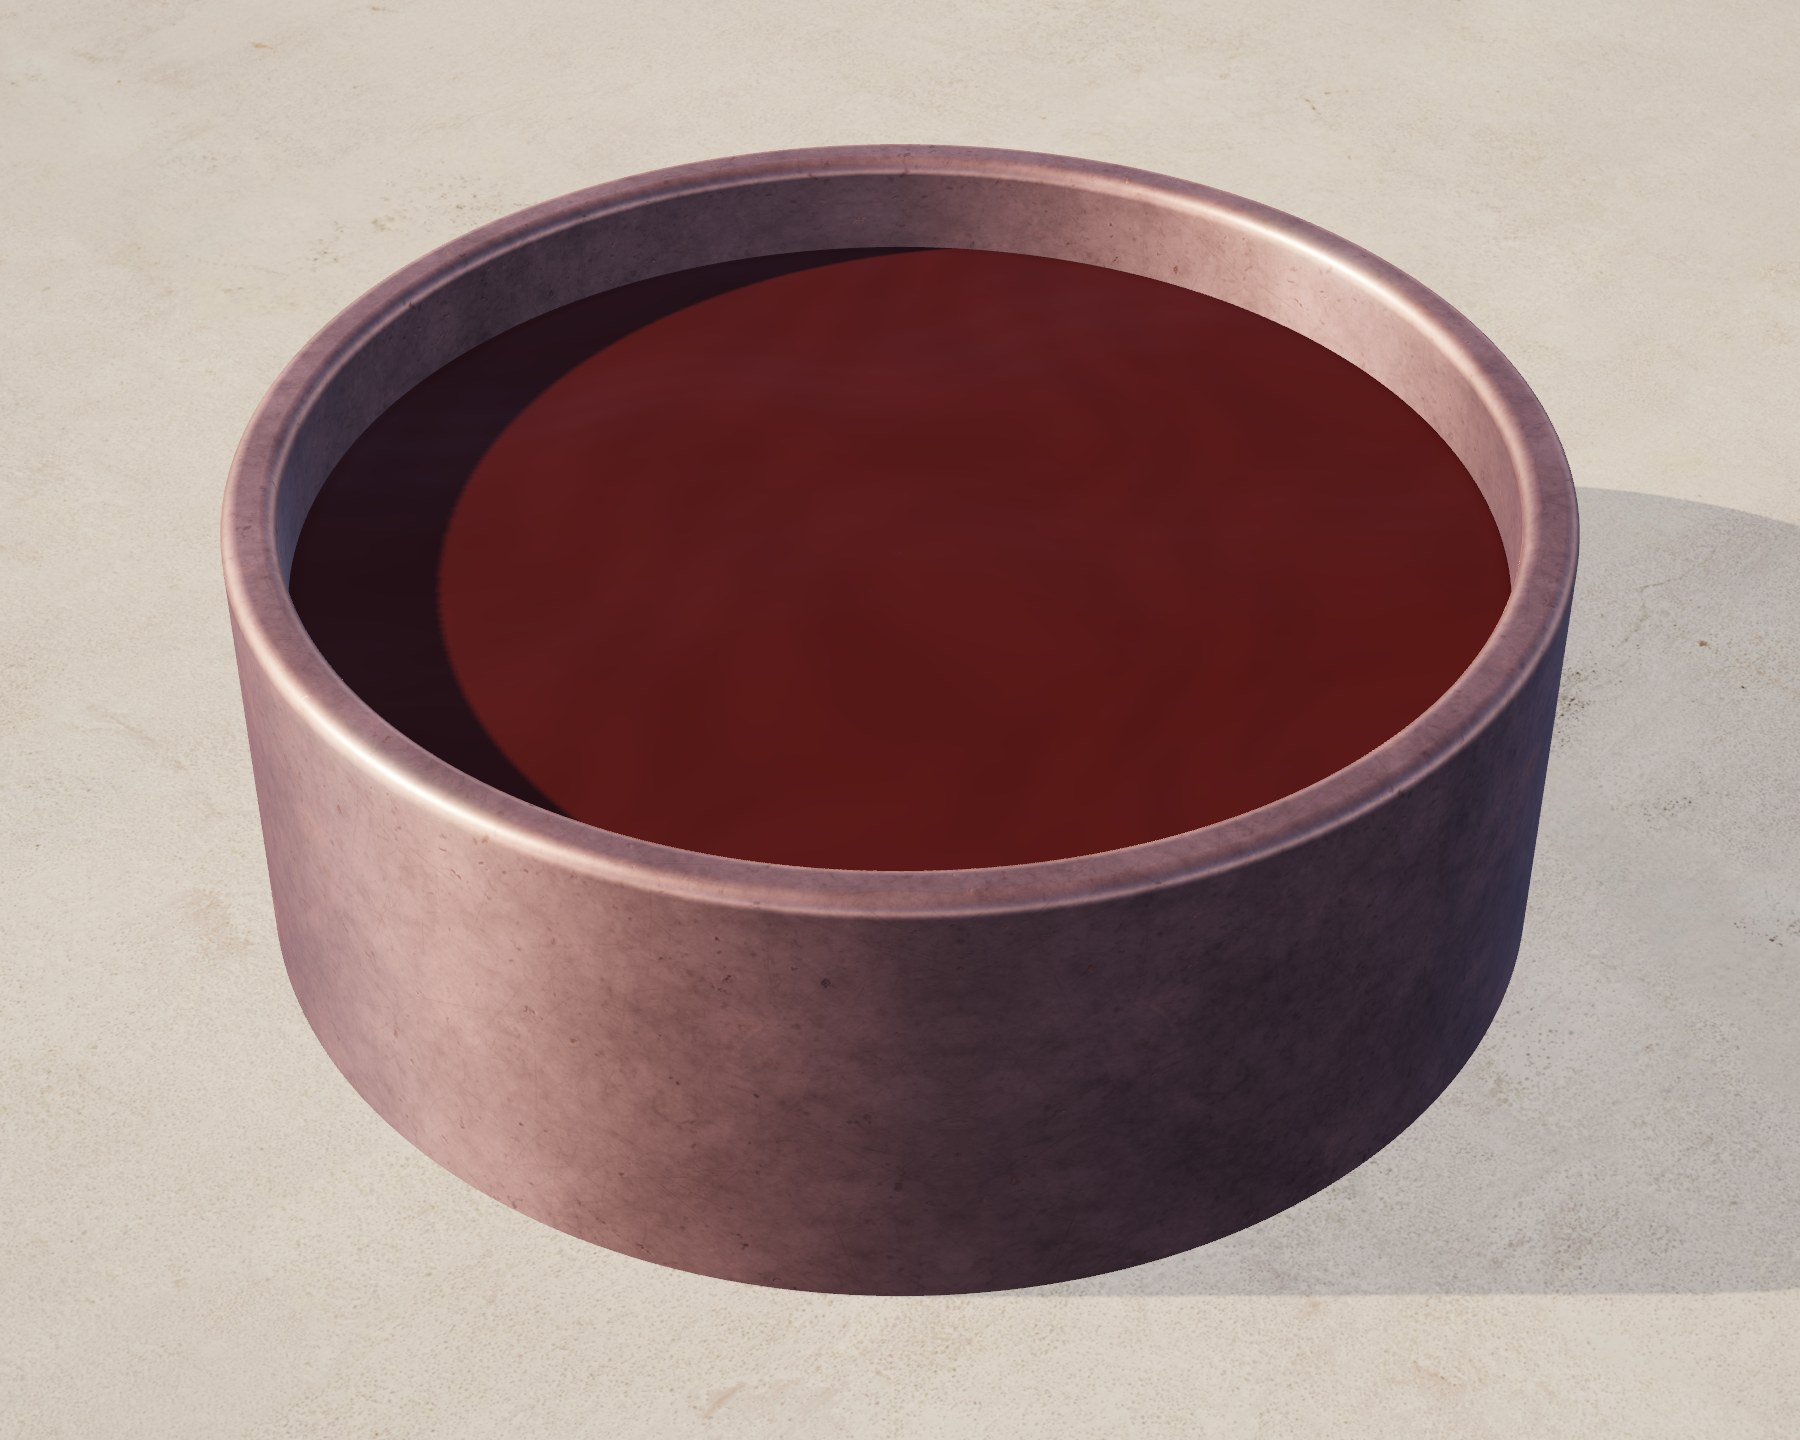
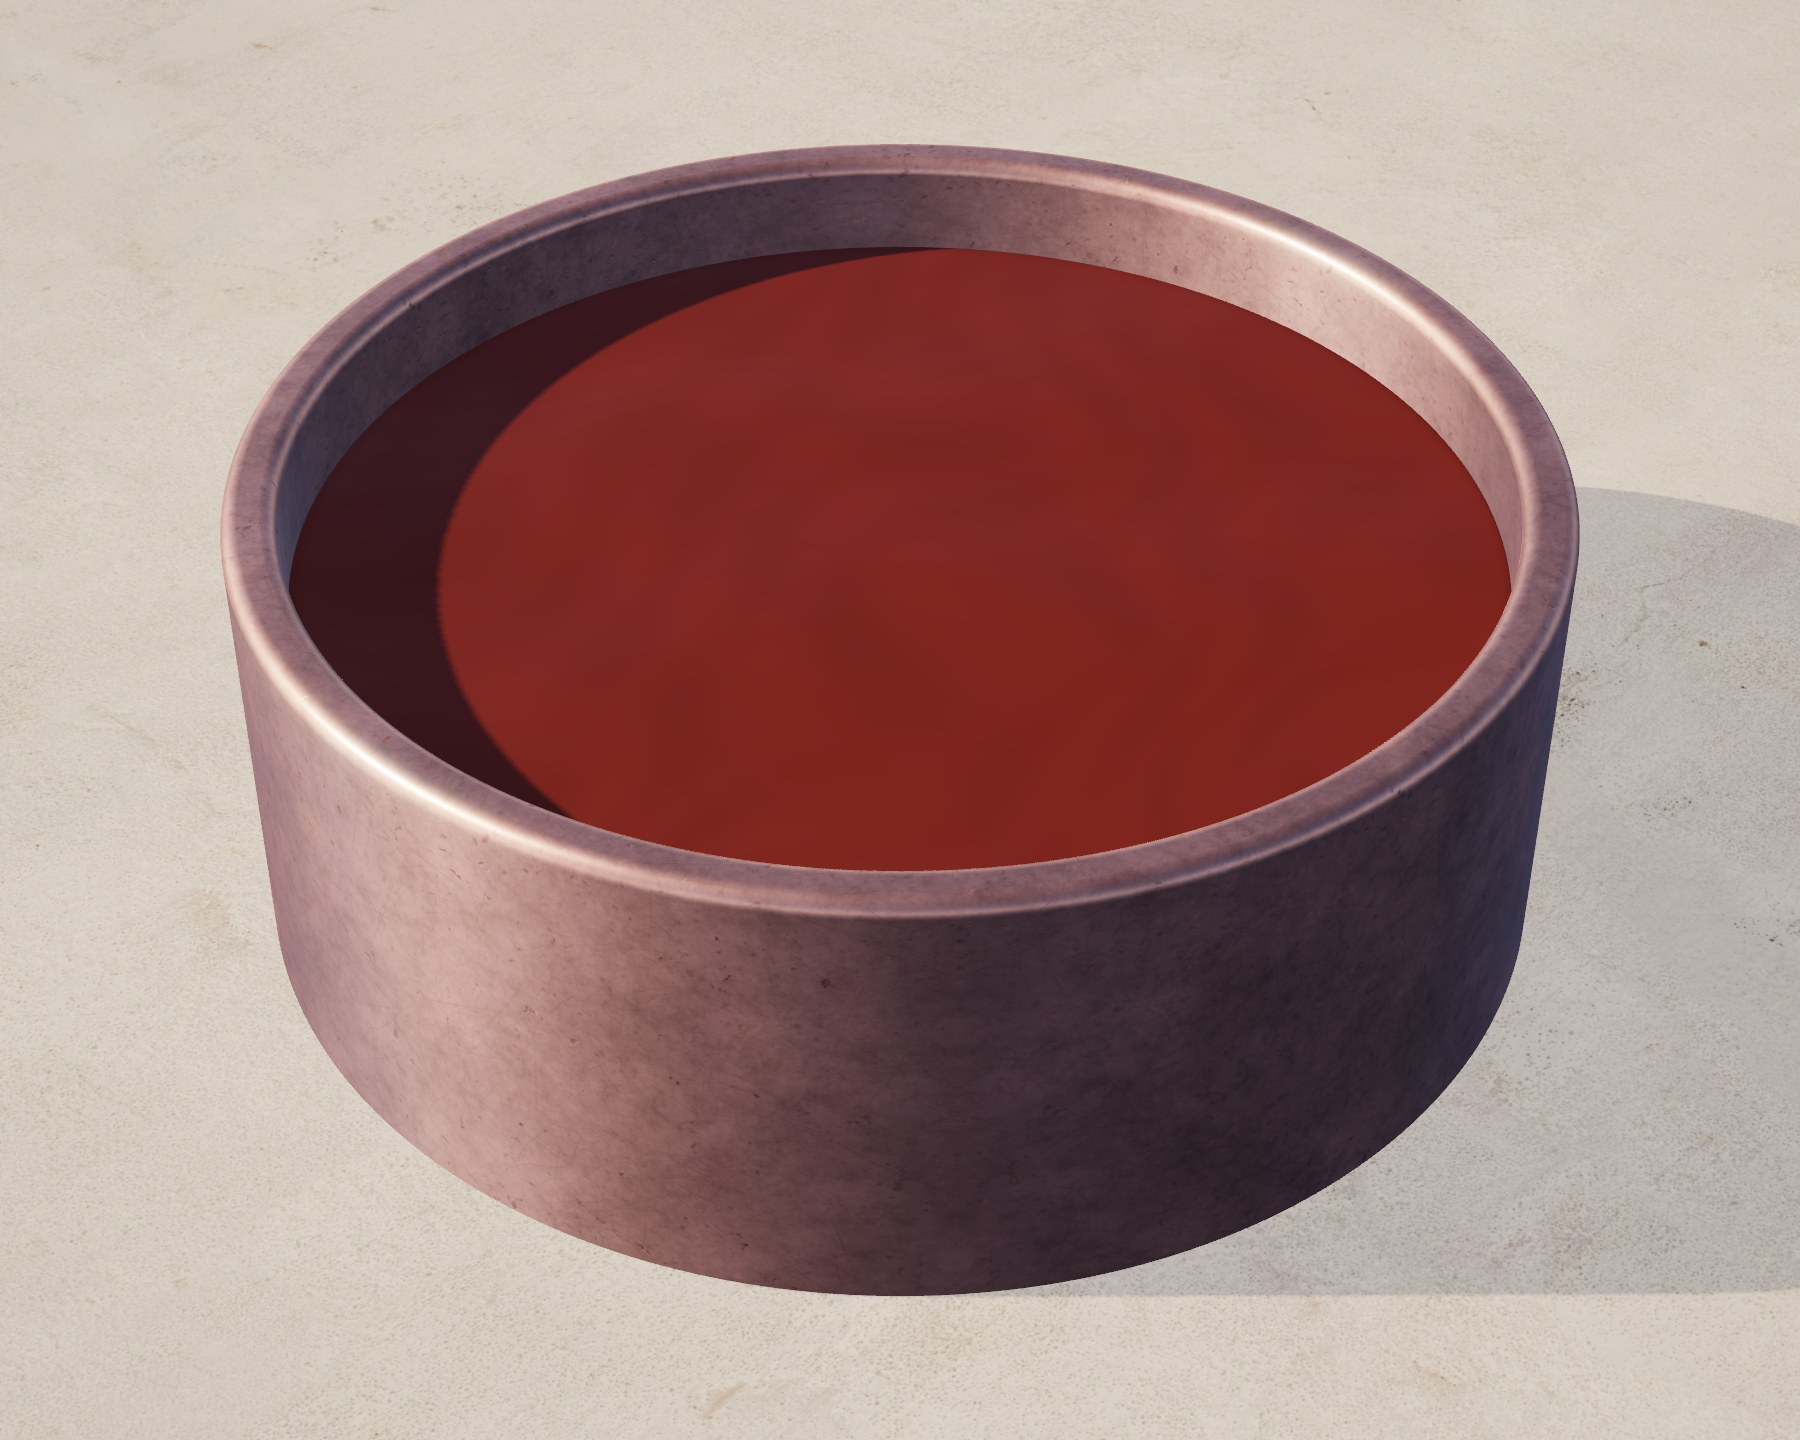
Re-render the Door 1 liquid, bath and alum stills after DR-098, attribute pan shimmer per object, and record the integration (DR-100)
Fifteen object stills changed with the new substance materials, so Door 1 again shows the
liquids Door 2 renders. window.shimmerByObject measures how much of the slow-pan figure each
object carries. DR-100 records the merges, the stale e2e battery, the test uploads that reached
the remote bucket and were deleted, the hall textile shimmer trade-off left for the lead, and
the Iris Xe memory floor.

Changed region(s): [[0.2178, 0.1562, 0.84, 0.625]]

diff --git a/tools/walkthrough-lab/lab.ts b/tools/walkthrough-lab/lab.ts
@@ -300,6 +300,23 @@ win.flicker = async (frames = 60, threshold = 10, mode = "pan") => {
   context.putImageData(image, 0, 0);
   return { mode, anyPct: +((any / count) * 100).toFixed(3), fourPlusPct: +((four / count) * 100).toFixed(3), events, heat: heat.toDataURL("image/png") };
 };
+win.shimmerByObject = async (frames = 60, threshold = 10) => {
+  const panShimmer = async () => ((await (win.flicker as (f: number, t: number, m: string) => Promise<{ fourPlusPct: number }>)(frames, threshold, "pan")).fourPlusPct);
+  const whole = await panShimmer();
+  const groups = [
+    ...(auditRoot ? objectParts(auditRoot).map((part) => ({ label: `${part.auditName} / ${part.label}`, meshes: part.meshes as THREE.Object3D[] })) : []),
+    ...environmentOf().map((mesh) => ({ label: `environment / ${mesh.name || (mesh as THREE.Mesh).geometry.type}`, meshes: [mesh] })),
+  ];
+  const rows: { label: string; share: number }[] = [];
+  for (const group of groups) {
+    const shown = group.meshes.map((mesh) => mesh.visible);
+    for (const mesh of group.meshes) mesh.visible = false;
+    const without = await panShimmer();
+    group.meshes.forEach((mesh, index) => (mesh.visible = shown[index]!));
+    rows.push({ label: group.label, share: +(whole - without).toFixed(3) });
+  }
+  return { whole, rows: rows.sort((a, b) => b.share - a.share) };
+};
 win.walkCheck = () => {
   if (!walkPlan || !walkColliders) return null;
   let walker: Walker = walkerAt(walkPlan.standpoint.from, walkPlan.standpoint.to, 0);

diff --git a/docs/research/design-process/decisions.md b/docs/research/design-process/decisions.md
@@ -3623,3 +3623,14 @@ novice met, and none touches the sheet.
 - **Leak check:** over a walk, live textures stay at 72 to 110, live GL texture memory at 1.54 to 2.06 GB and buffer memory at 60 to 103 MB, falling when a yard is released, on NVIDIA and on Iris Xe. Standing still with zero GL allocations by the page, the headless shell's GPU process on the Iris Xe grows 16.7 to 23.5 MB/s, while full Chromium on the same Iris Xe stays flat (-2.7 MB/s) and NVIDIA stays flat (-0.1 MB/s). The growth is the headless shell (DR-073), not a leak in our code.
 - **Iris Xe:** the headless shell (`launchLowSpec`), Ajrakh: worst frame per leg 23, 15167, 10090, 35, 27416, 3125, 24291, 25 and 22 ms, its GPU process climbing from 5.7 to 8.9 GB private and free RAM down to 216 MB. Legs without a stall are now 22 to 35 ms (before: 137, 68 and 55 ms on such legs). Full Chromium on the same Iris Xe, not the shell: no multi-second gap on the whole route, worst frame per leg 50, 58, 60, 49, 55, 63, 44, 63 and 38 ms, mean 10 to 12.6 ms, p95 11.9 to 16.9 ms; five legs exceed 50 ms by 5 to 13 ms.
 - **Open:** on the Iris Xe the GPU process holds about 5.4 to 6.5 GB for 1.5 to 2.1 GB of textures. Measured per 2048 px texture: three.js's immutable `texStorage2D` upload costs 58 to 97 MB in the Iris Xe GPU process, a mutable `texImage2D` upload with mipmaps 24 MB. Changing the upload path would save several GB on integrated graphics; it was not done here.
+
+## DR-100: Integration Of DR-098 And DR-099; E2E Studies On Battery V4 With An Image Check; Door 1 Liquid Stills Re-Rendered; Hall Textile Shimmer Left For The Lead (Adopted under the lead's delegation, 2026-11-06)
+- **Merges:** the liquid-colour branch (0eef804) and the frame-stray branch (568a850) both wrote DR-098. Both records are kept; the frame-stray record is renumbered DR-099. No code conflicted.
+- **Door 1 asked for two missing stills.** The demo studies the e2e suite used pinned test battery v3, seeded before the Door 1 stills were re-rendered under new names, so two identification and placement items pointed at `8ba4da5b.jpg` and `9ca5cfdd.jpg`, which no longer exist. The generated battery (`db/seeds/study-test-items.generated.json`) was already current. **Decision:** the e2e studies take their slug from one battery version (now 4: `demo-walking-v4`, `demo-walking-cap-v4`), and the journey spec fails at setup if any image the pinned battery shows is missing from `public/`.
+- **E2E coverage added:** resume and a hub visit keep learning open, then withdrawal (DR-095 item 1); an excluded session ends at once, says only that it ended, and can still withdraw (DR-095 item 4 and correction a); the invite gate (bad code refused, a one-use code refused the second time, a revoked code cannot start a study, a link code admits); a role-less account waits at `/awaiting-access` until an administrator grants a role (DR-096); a content editor uploads an image, a curator's verification is refused while its provenance is "unverified", the editor corrects it and resubmits, the curator verifies it, and a release on unready content publishes nothing. The research dashboard check now enrols its own participant instead of depending on the journey spec's leftovers, and every spec signs staff in through one helper that waits out the per-minute sign-in throttle instead of timing out.
+- **Remote bucket, found and cleaned:** `next start` loads `.env.production.local`, which names the deployment's Neon object store, so three e2e test PNGs (18614 bytes each, random noise) were uploaded to bucket `episteme-media` during this work. All three objects were deleted (HEAD before: present; after: absent) and their rows removed. The e2e server now runs with the S3 variables blank and `MEDIA_LOCAL_DIR` in a scratch folder, and the upload test refuses to run unless the media page reports local disk.
+- **Door 1 parity after DR-098:** Door 1 object stills are rendered from the same substance materials that DR-098 changed, and had not been re-rendered. All 53 were rendered again on NVIDIA; 15 changed (rice starch, neerani, turmeric, madder and myrobalan pots, the copper, vat and tank baths, alum in all three traditions; mean absolute change 0.13 to 5.24 per channel), and the 20 others differed only in JPEG bytes (mean change 0.00) and were left as committed. Both doors now show the same liquids.
+- **Slow-pan shimmer (Section 8.9, at most 0.5 per cent):** measured on all 32 scenes. Eight are at or over: Ajrakh n=6 0.746 and n=9 1.457; Sanganeri n=1 0.500, n=4 0.527 and n=9 2.280; Kalamkari n=1 0.502, n=5 1.108 and n=9 2.564. The same eight read the same at fb445c6 (within 0.003), so neither merge caused them. Hiding one object at a time (`window.shimmerByObject`) puts the halls on the printed product photographs (Kalamkari p1 to p6 together 2.23 of 2.56), and the bench scenes on the wicker basket scan (0.17 to 0.28) and the bamboo lean-to (0.19 to 0.23). Giving the hall photographs the cloth's far mip bias (1.5 beyond 5 m) brings the halls to 0.647, 0.274 and 0.472, but the six products then read visibly soft from the standpoint; 0.7 keeps them sharp but leaves 1.077, 0.742 and 1.138. Rule L4/L5 ranks above the derived budget, so nothing was changed. **For the lead:** choose between sharper products and the budget, or fund better-filtered product textures (pre-filtered mip levels) that could meet both. The detail-layer footprint fade was tried and had no effect, so it was not kept.
+- **Iris Xe route:** two Ajrakh runs on the headless shell were stopped by a free-RAM guard; the second reached leg 3 with the largest headless-shell process at 7633 MB and free RAM at 291 MB (leg 2 worst frame 34 ms). This is DR-099's open texture-upload cost; the Sanganeri and Kalamkari Iris Xe routes were not attempted for that reason.
+- **Removed:** the low-spec Playwright project matched `immersive-rendering.spec.ts`, deleted with the old doors in DR-076; it now matches only the renderer check.
+- **Paper implications:** none for the study design. The e2e figures above are engineering checks of the study flow, not study data.
